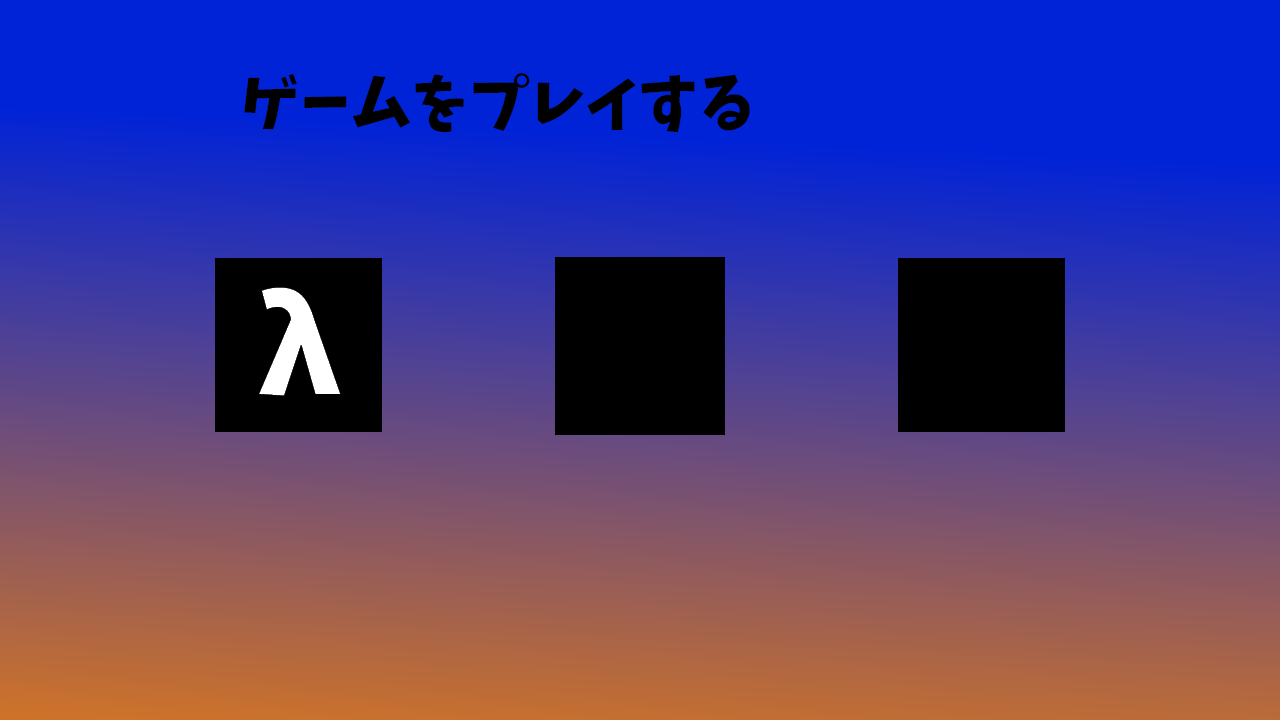
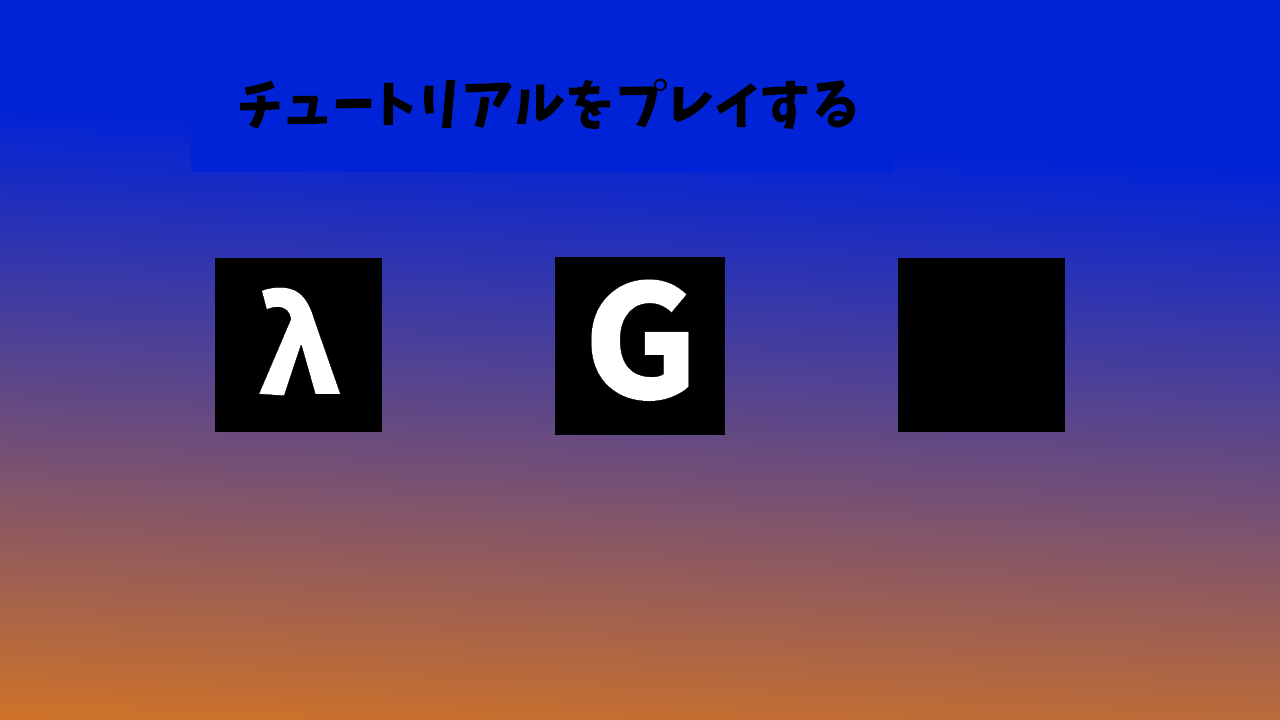
bm, hmnb vkhjnm.,bujkl

Changed region(s): [[0.1875, 0.0917, 0.6875, 0.1833], [0.4375, 0.3667, 0.5625, 0.5806]]

diff --git a/DirectXGame/TutorialScene.cpp b/DirectXGame/TutorialScene.cpp
@@ -34,9 +34,8 @@ void TutorialScene::Initialize() {
 
 	//// チュートリアル用の画像（例: "tutorial.png"）を読み込む
 	//// この画像はプロジェクトに用意してください
-	//textureHandle_ = KamataEngine::TextureManager::Load("tutorial.png");
-	//tutorialSprite_ = KamataEngine::Sprite::Create(textureHandle_, {0, 0});
-
+	// textureHandle_ = KamataEngine::TextureManager::Load("tutorial.png");
+	// tutorialSprite_ = KamataEngine::Sprite::Create(textureHandle_, {0, 0});
 
 	// 再初期化時のクリーンアップ
 	if (player_ != nullptr) {
@@ -100,7 +99,6 @@ void TutorialScene::Initialize() {
 	skySprite1_ = Sprite::Create(skyTextureHandle_, {0.0f, 0.0f});
 	skySprite2_ = Sprite::Create(skyTextureHandle_, {0.0f, 0.0f});
 
-
 	// アクションフラグを初期化
 	hasPlayerMoved_ = false;
 	hasPlayerJumped_ = false;
@@ -133,7 +131,6 @@ void TutorialScene::Initialize() {
 	tutorialStageSprite_7 = Sprite::Create(tutorialStageTexHandle_7, {0.0f, 0.0f});
 
 	// ▲▲▲ 修正ここまで ▲▲▲
-
 
 	float windowWidth = 640;
 	float windowHeight = 720;
@@ -222,16 +219,26 @@ void TutorialScene::Initialize() {
 void TutorialScene::Update() {
 
 	// --- 1. 時間経過と全体スピードの更新 ---
-	gameTime_ += 1.0f / 60.0f; // 40秒タイマーのために時間は計測し続ける
-	// ▼▼▼ 変更点: speedMultiplier_ を固定値にする ▼▼▼
-	speedMultiplier_ = 1.5f; // これでスクロール速度が一定になります（値は好みで調整してください）
+	gameTime_ += 1.0f / 60.0f;
 
-	if (!isTutorialPhase2_ && gameTime_ >= 30.0f) {
-		isTutorialPhase2_ = true;
+	// 40秒経過したかどうかでスクロール速度の計算方法を切り替える
+	if (gameTime_ < 40.0f) {
+		// 40秒未満の場合、スクロール速度を一定に保つ
+		speedMultiplier_ = 1.5f;
+	} else {
+		// 40秒経過後、経過時間に応じてだんだん速くする
+		// 40秒時点から加速が始まるように、経過時間から40秒を引く
+		float elapsedTimeAfter40s = gameTime_ - 40.0f;
+		// 基本速度1.5fに、40秒後からの経過時間に応じて速度を加算（この計算式で加速具合を調整できます）
+		speedMultiplier_ = 1.5f + (elapsedTimeAfter40s / 15.0f) * 1.5f;
+	}
+
+	// 速度に上限を設ける
+	if (speedMultiplier_ > 200.0f) {
+		speedMultiplier_ = 200.0f;
 	}
 
 	float scrollSpeed = 0.0f;
-
 
 	if (!player_->IsDead()) {
 
@@ -489,7 +496,6 @@ void TutorialScene::Update() {
 			}
 		}
 
-
 		// --- 7. 画面端での重力反転処理 ---
 		playerPos = player_->GetPosition();
 		if (!player_->IsInversion()) {
@@ -571,6 +577,13 @@ void TutorialScene::Update() {
 			prevScore_ = score_;
 		}
 
+		// ▼▼▼ ここから追加 ▼▼▼
+		// スコアが5000に達したら終了フラグを立てる
+		if (score_ >= 5000) {
+			isFinished_ = true;
+		}
+		// ▲▲▲ ここまで追加 ▲▲▲
+
 		// ▼▼▼ HP警告音の管理 ▼▼▼
 		if (playerHP_ == 1 && !isWarningPlaying_) {
 			warningVoiceHandle_ = Audio::GetInstance()->PlayWave(sfxWarningHandle_, true);
@@ -613,13 +626,12 @@ void TutorialScene::Update() {
 		isGameOver_ = true;
 	}
 
-	//if (!player_->IsDead()) {
+	// if (!player_->IsDead()) {
 	//	Vector3 playerPos = player_->GetPosition();
 	//	if (playerPos.y > 23.0f || playerPos.y < -23.0f) {
 	//		isGameOver_ = true;
 	//	}
-	//}
-
+	// }
 }
 
 void TutorialScene::Draw() {
@@ -686,7 +698,6 @@ void TutorialScene::Draw() {
 		}
 		// 操作ガイドは描画しない
 	}
-
 
 	Sprite::PostDraw();
 

diff --git a/DirectXGame/main.cpp b/DirectXGame/main.cpp
@@ -1,15 +1,15 @@
-#include "GameScene.h"
-#include "KamataEngine.h"
-#include "TitleScnce.h"
-#include "SelectScene.h"
-#include "PauseMenu.h"
 #include "GameClearScene.h"
 #include "GameOverScene.h"
+#include "GameScene.h"
 #include "HowToPlayScene.h"
+#include "KamataEngine.h"
+#include "PauseMenu.h"
+#include "SelectScene.h"
+#include "TitleScnce.h"
 #include "TutorialScene.h"
+#include <Windows.h>
 #include <fstream> // ▼▼▼ 追加 ▼▼▼
 #include <string>  // ▼▼▼ 追加 ▼▼▼
-#include <Windows.h>
 
 using namespace KamataEngine;
 
@@ -89,7 +89,7 @@ int WINAPI WinMain(_In_ HINSTANCE, _In_opt_ HINSTANCE, _In_ LPSTR, _In_ int) {
 	gameScnce->Initialize();
 
 	gameOverScene = new GameOverScene();
-	//gameOverScene->Initialize();
+	// gameOverScene->Initialize();
 
 	howToPlayScene = new HowToPlayScene();
 	howToPlayScene->Initialize();
@@ -101,7 +101,7 @@ int WINAPI WinMain(_In_ HINSTANCE, _In_opt_ HINSTANCE, _In_ LPSTR, _In_ int) {
 	gameClearScene->Initialize();
 
 	tutorialScene = new TutorialScene(); // tutorialSceneをnew
-	tutorialScene->Initialize();        // Initializeを呼ぶ
+	tutorialScene->Initialize();         // Initializeを呼ぶ
 
 	// メインループ
 	while (true) {
@@ -141,14 +141,13 @@ int WINAPI WinMain(_In_ HINSTANCE, _In_opt_ HINSTANCE, _In_ LPSTR, _In_ int) {
 			switch (selectScene->GetSelection()) {
 
 			case SelectScene::SelectionResult::StartGame:
-				// ゲーム本編を開始
-				Audio::GetInstance()->StopWave(titleBgmVoiceHandle);
-				gameBgmVoiceHandle = Audio::GetInstance()->PlayWave(gameBgmHandle, true);
-				scene = Scene::Game;
-				gameScnce->Initialize();
+				// ▼▼▼ ここから変更 ▼▼▼
+				// ゲーム本編を開始する前に、まず遊び方シーンへ遷移
+				scene = Scene::HowToPlay;
+				howToPlayScene->Initialize();
 				selectScene->Initialize(); // 次回のためにリセット
+				// ▲▲▲ ここまで変更 ▲▲▲
 				break;
-
 
 			case SelectScene::SelectionResult::StartTutorial:
 				// チュートリアルシーンへ遷移
@@ -194,14 +193,12 @@ int WINAPI WinMain(_In_ HINSTANCE, _In_opt_ HINSTANCE, _In_ LPSTR, _In_ int) {
 			}
 			break;
 
-			// ▼▼▼ Tutorialシーンの処理を追加 ▼▼▼
 		// ▼▼▼ Tutorialシーンの処理を追加 ▼▼▼
 		case Scene::Tutorial:
 
 			tutorialScene->Update();
 			tutorialScene->Draw();
 
-			// ▼▼▼ ここから変更 ▼▼▼
 			// HPが0になりゲームオーバーになったらタイトルへ戻る
 			if (tutorialScene->IsGameOver()) {
 				scene = Scene::Title;
@@ -209,13 +206,14 @@ int WINAPI WinMain(_In_ HINSTANCE, _In_opt_ HINSTANCE, _In_ LPSTR, _In_ int) {
 				selectScene->Initialize(); // セレクトシーンをリセット
 
 			} else if (tutorialScene->IsFinished()) {
-				// (もしクリア条件があるなら)チュートリアルが終わったらゲーム本編へ
-				Audio::GetInstance()->StopWave(titleBgmVoiceHandle);
-				gameBgmVoiceHandle = Audio::GetInstance()->PlayWave(gameBgmHandle, true);
-				scene = Scene::Game;
-				gameScnce->Initialize();
+				// チュートリアルが終わったら(スコア5000達成)セレクト画面へ戻る
+				scene = Scene::Select;
+				selectScene->Initialize(); // セレクトシーンをリセット
+				// BGMをタイトルに戻す
+				if (!Audio::GetInstance()->IsPlaying(titleBgmVoiceHandle)) {
+					titleBgmVoiceHandle = Audio::GetInstance()->PlayWave(titleBgmHandle, true);
+				}
 			}
-			// ▲▲▲ ここまで変更 ▲▲▲
 
 			break;
 

diff --git a/DirectXGame/SelectScene.cpp b/DirectXGame/SelectScene.cpp
@@ -21,7 +21,6 @@ void SelectScene::Initialize() {
 	sfxSelectHandle_ = Audio::GetInstance()->LoadWave("audio/select.wav");
 	sfxConfirmHandle_ = Audio::GetInstance()->LoadWave("audio/confirm.wav");
 
-
 	// タイトルから戻ってきたときの再初期化に備えてフラグをリセット
 	selectionResult_ = SelectionResult::None; // 選択状態をリセット
 
@@ -41,7 +40,7 @@ void SelectScene::Initialize() {
 	selectSprite_3 = KamataEngine::Sprite::Create(textureHandle_3, {0, 0});
 	selectSprite_3->SetPosition({0, 0}); // 画面中央に配置
 
-    KeytextureHandle_ = KamataEngine::TextureManager::Load("key.png");
+	KeytextureHandle_ = KamataEngine::TextureManager::Load("key.png");
 	KeyselectSprite_ = KamataEngine::Sprite::Create(KeytextureHandle_, {0, 0});
 	KeyselectSprite_->SetAnchorPoint({0.5f, 0.5f});
 
@@ -129,25 +128,24 @@ void SelectScene::Update() {
 		}
 	}
 
-	//if (currentSelectIndex_ == 0) {
+	// if (currentSelectIndex_ == 0) {
 	//	// EnterキーまたはAボタンが押されたらゲーム開始
 	//	if (input_->TriggerKey(DIK_SPACE) || isAButtonTriggered) {
 	//		Audio::GetInstance()->PlayWave(sfxConfirmHandle_); // ★決定音を再生
 	//		isGameStart_ = true;
 	//	}
-	//}
-
+	// }
 
 	if (input_->TriggerKey(DIK_RETURN) || input_->TriggerKey(DIK_SPACE) || isAButtonTriggered) {
 		Audio::GetInstance()->PlayWave(sfxConfirmHandle_); // ★決定音を再生
 
 		// 現在のカーソル位置によって結果をセットする
 		switch (currentSelectIndex_) {
-		case 0: // 1枚目の画像
-			selectionResult_ = SelectionResult::StartGame;
+		case 0:                                                // 1枚目の画像
+			selectionResult_ = SelectionResult::StartTutorial; // チュートリアルシーンへ
 			break;
-		case 1: // 2枚目の画像 (select/2.png)
-			selectionResult_ = SelectionResult::StartTutorial;
+		case 1:                                            // 2枚目の画像 (select/2.png)
+			selectionResult_ = SelectionResult::StartGame; // ゲーム本編へ
 			break;
 		case 2:                                          // 3枚目の画像
 			selectionResult_ = SelectionResult::Option3; // とりあえずOption3としておく

diff --git a/DirectXGame/GameScene.cpp b/DirectXGame/GameScene.cpp
@@ -167,9 +167,23 @@ void GameScene::Initialize() {
 // GameScene.cpp
 
 void GameScene::Update() {
+
 	// --- 1. 時間経過と全体スピードの更新 ---
 	gameTime_ += 1.0f / 60.0f;
-	speedMultiplier_ = 1.0f + (gameTime_ / 15.0f) * 1.5f;
+
+	// 40秒経過したかどうかでスクロール速度の計算方法を切り替える
+	if (gameTime_ < 15.0f) {
+		// 40秒未満の場合、スクロール速度を一定に保つ
+		speedMultiplier_ = 1.5f;
+	} else {
+		// 40秒経過後、経過時間に応じてだんだん速くする
+		// 40秒時点から加速が始まるように、経過時間から40秒を引く
+		float elapsedTimeAfter40s = gameTime_ - 15.0f;
+		// 基本速度1.5fに、40秒後からの経過時間に応じて速度を加算（この計算式で加速具合を調整できます）
+		speedMultiplier_ = 1.5f + (elapsedTimeAfter40s / 15.0f) * 1.5f;
+	}
+
+	// 速度に上限を設ける
 	if (speedMultiplier_ > 200.0f) {
 		speedMultiplier_ = 200.0f;
 	}
@@ -520,12 +534,12 @@ void GameScene::Update() {
 		isGameOver_ = true;
 	}
 
-	if (!player_->IsDead()) {
-		Vector3 playerPos = player_->GetPosition();
-		if (playerPos.y > 23.0f || playerPos.y < -23.0f) {
-			isGameOver_ = true;
-		}
-	}
+	//if (!player_->IsDead()) {
+	//	Vector3 playerPos = player_->GetPosition();
+	//	if (playerPos.y > 25.0f || playerPos.y < -25.0f) {
+	//		isGameOver_ = true;
+	//	}
+	//}
 }
 
 void GameScene::Draw() {
